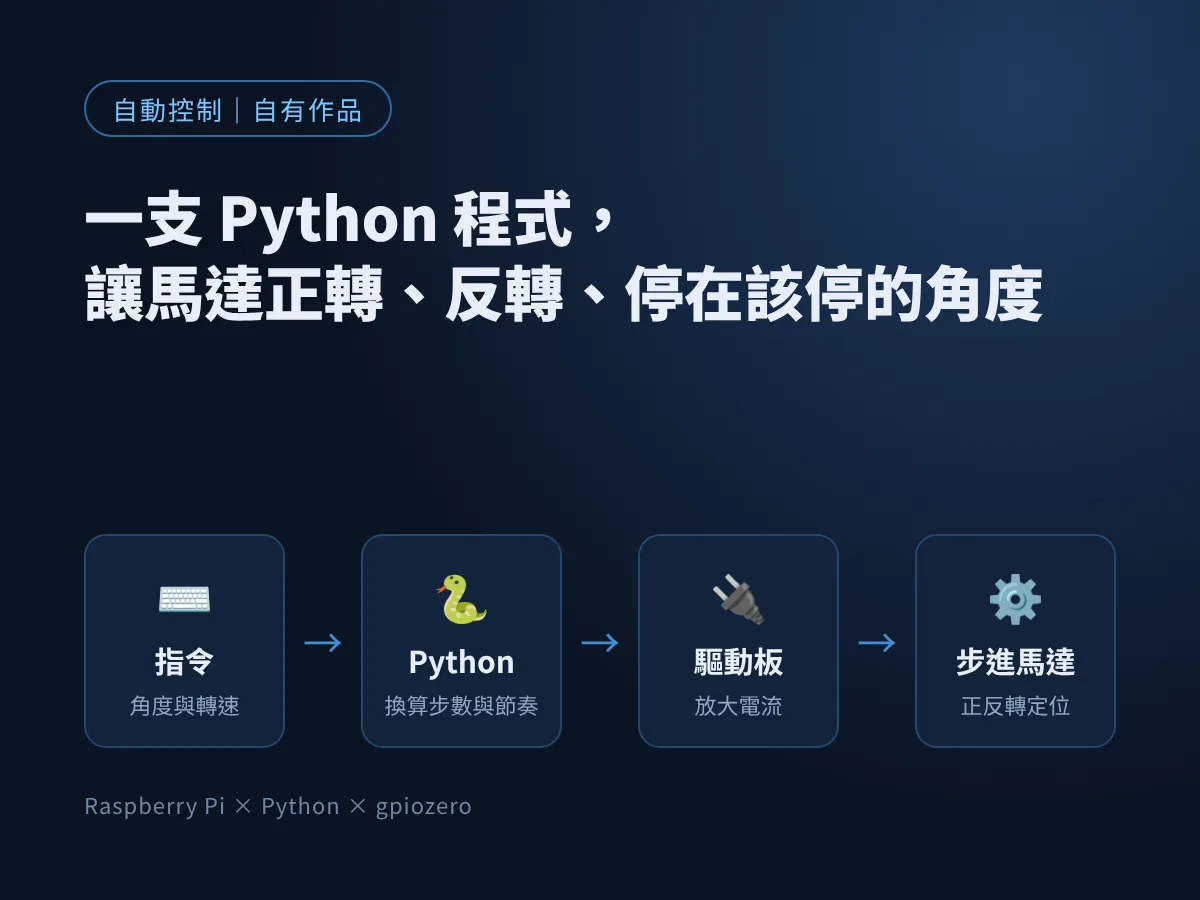
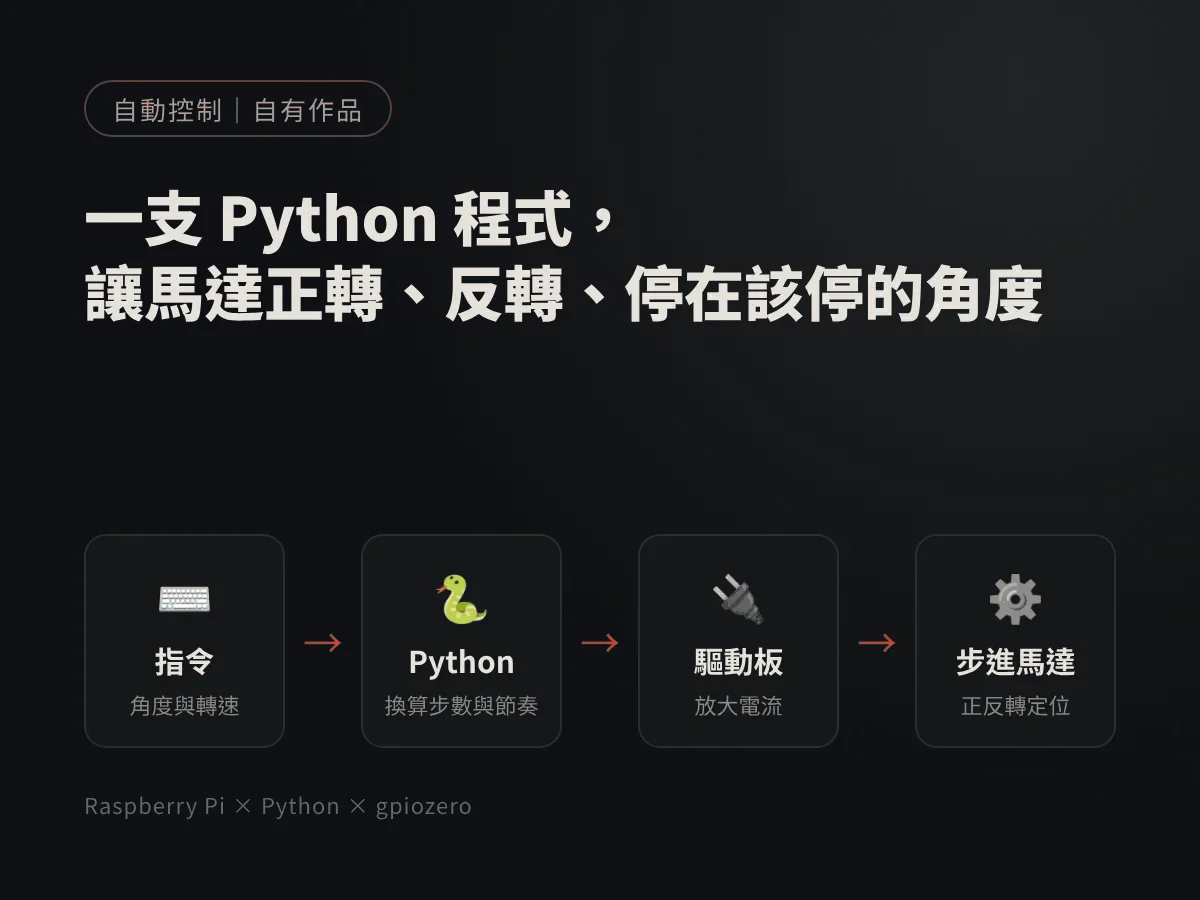
作品頁跟著改版；品牌網站 Demo 點進去直接看網站
- 有 demo 的作品頁整頁嵌入 Demo，不寫技術說明
- 作品列表改用大圖卡，品牌 Demo 排最前
- 內頁改儀器風頁首；舊封面重新配色為石墨＋雷射紅

Claude-Session: https://claude.ai/code/session_01T1Zcs2FxqtaxBNoAKKkJqk

diff --git a/src/content.config.ts b/src/content.config.ts
@@ -47,6 +47,12 @@ const works = defineCollection({
     /** 封面圖，放在 public/works/ */
     cover: z.string().optional(),
     coverAlt: z.string().optional(),
+    /** 品牌網站 Demo：填了就直接在作品頁嵌入整個 Demo，不寫技術說明 */
+    demo: z.string().optional(),
+    /** Demo 的品牌名，作品頁大標用 */
+    demoName: z.string().optional(),
+    /** 照片來源，作品頁底部小字 */
+    credits: z.string().optional(),
   }),
 });
 

diff --git a/public/demos/pu-jewelry/index.html b/public/demos/pu-jewelry/index.html
@@ -349,5 +349,6 @@ footer{position:relative;z-index:2;background:var(--paper);border-top:1px solid 
 })();
 </script>
 
+<script>if(window.self!==window.top){var b=document.querySelector(".demo-badge");if(b)b.style.display="none";}</script>
 </body>
 </html>

diff --git a/public/demos/meihao-jianbing/index.html b/public/demos/meihao-jianbing/index.html
@@ -425,5 +425,6 @@ figcaption small{font-size:.7rem;letter-spacing:.06em;opacity:.8}
 })();
 </script>
 
+<script>if(window.self!==window.top){var b=document.querySelector(".demo-badge");if(b)b.style.display="none";}</script>
 </body>
 </html>

diff --git a/public/demos/rice-brand/index.html b/public/demos/rice-brand/index.html
@@ -432,5 +432,6 @@ footer address{font-style:normal;user-select:text}
 })();
 </script>
 
+<script>if(window.self!==window.top){var b=document.querySelector(".demo-badge");if(b)b.style.display="none";}</script>
 </body>
 </html>

diff --git a/src/content/works/meihao-jianbing-site.md b/src/content/works/meihao-jianbing-site.md
@@ -1,59 +1,17 @@
 ---
-title: 小吃店也能有精品官網：煎餅果子店的品牌網站與點餐試算
-shortTitle: 餐飲品牌網站（煎餅果子 Demo）
-description: 以虛構的煎餅果子店「美好煎餅」做的品牌官網 Demo。用精品品牌常見的滿版大圖排版呈現街頭小吃，捲動時照片緩慢推近、餅皮以圓形展開，最後是可以選份量、口味、加料的點餐試算。純前端單頁。
+title: 小吃店的精品官網：美好煎餅
+shortTitle: 餐飲品牌官網（美好煎餅）
+description: 虛構的煎餅果子店「美好煎餅」官網 Demo。用精品品牌的滿版大圖介紹街頭小吃，看完菜單就能選份量、口味、加料，算好再訂。
 pubDate: 2026-11-03
-tags: [網站架設, 品牌網站, 餐飲, 互動網頁]
+tags: [網站架設, 品牌網站]
 order: 12
 kind: 自有作品
-stack: [GSAP ScrollTrigger, Lenis, HTML／CSS／JavaScript]
+demo: /demos/meihao-jianbing/
+demoName: 美好煎餅
 link: /demos/meihao-jianbing/
-linkLabel: 打開 Demo：美好煎餅
-cover: /works/cover-meihao-jianbing-site.webp
-coverAlt: 開場、餅皮、薄脆、菜單、點餐五個區塊依序排列的流程圖
+cover: /demos/meihao-jianbing/img/t-hero.webp
+coverAlt: 一份剛做好的煎餅果子
+credits: tommao wang、Mche Lee、Erol Ahmed（天津街頭照片的招牌文字已改為繁體，僅作示範）
 ---
 
-> 這是示範作品。「美好煎餅」是虛構店名，地址、電話與價格都是編的，不是客戶案子，也還沒有實際上線給任何店家使用。照片來自 Unsplash，可免費商用；其中一張天津街頭照片的招牌文字改成了繁體。
-
-小吃店的網站常常只有一張菜單照片和地址。客人想知道的其實是：這家在做什麼、哪一款推薦、現在去還有沒有、能不能先訂。
-
-這個 Demo 把一間煎餅果子店當成精品品牌來介紹：**大圖說故事，菜單講清楚，最後讓客人自己算好再訂。**
-
-## 打開看看
-
-[美好煎餅 Demo](/demos/meihao-jianbing/)：電腦和手機都能看，往下捲到最後可以試用點餐試算。
-
-## 頁面結構
-
-| 區塊 | 內容 |
-|---|---|
-| 開場 | 一份煎餅果子的滿版照片，標語「一捲，六百年」 |
-| 什麼是煎餅果子 | 一段介紹，加上一份裡面有什麼（綠豆餅皮、蛋、薄脆、生菜…） |
-| 現場 | 鐵板攤餅與醬料的照片，說明現點現做 |
-| 綠豆餅皮 | 鐵板上攤開的餅皮，捲動時以圓形展開 |
-| 薄脆 | 一疊現炸薄脆，從攤子照片裁切後合成到深色背景 |
-| 從路邊攤開始 | 天津街頭煎餅果子攤的照片 |
-| 菜單 | 大份、小份、甜點、飲料，推薦口味用 ◆ 標示 |
-| 加料 | 紅殼蛋照片，列出可加的配料 |
-| 預訂 | 營業時間、賣完即收的說明、點餐試算 |
-
-## 做了什麼
-
-- **點餐試算**：選大份或小份，口味清單跟著換；勾選加料、調整數量，下方即時顯示品項摘要與合計。換份量時會保留同名口味。
-- **照片動態**：每張大圖捲動時緩慢推近；餅皮那一段用圓形遮罩隨捲動打開，像麵糊在鐵板上抹開。
-- **白霧轉清**：每張大圖進入畫面時，先蓋著一層半透明白霧，捲到位置才清楚，模仿精品官網的照片浮現效果。
-- **營業資訊放在預訂旁邊**：賣完即收、公休日、不吃的配料要先說，都放在客人下單前會看到的位置。
-
-## 設計上的考量
-
-- **字放得下、看得清楚**：大圖上的文字底下有漸層暗部，再加一點文字陰影，淺色照片上也讀得到。
-- **沒有照片的品項**：甜點和飲料先用色塊卡片標示「照片準備中」，不拿其他照片假裝。
-- **減少動態效果**：系統設定「減少動態效果」時，關掉推近、展開與平滑捲動，內容照常顯示。
-
-## 可以怎麼用在店家
-
-早餐店、飲料店、便當店都能用同一套結構。需要準備的是店家自己的幾張好照片和一份菜單，點餐試算可以再接 LINE 官方帳號或 Google 表單，讓訂單真的送到店家手上。
-
-## 照片來源
-
-照片皆來自 Unsplash（Unsplash License，可免費商用）：tommao wang、Mche Lee、Erol Ahmed。天津街頭那張的招牌文字由簡體改為繁體，僅作示範。
+<!-- 品牌網站 Demo：作品頁直接嵌入 /demos/meihao-jianbing/，不顯示內文。 -->

diff --git a/src/content/works/scroll-story-brand-site.md b/src/content/works/scroll-story-brand-site.md
@@ -1,59 +1,18 @@
 ---
-title: 捲動敘事品牌網站：往下捲，畫面從一粒米走到一碗飯
-shortTitle: 捲動敘事品牌網站（米品牌 Demo）
-description: 以虛構的米品牌「粒田米舖」做的品牌官網 Demo。背景是一組滿版實景照片，隨捲動依序淡入白米、稻穗、稻田、碾好的米和一碗飯，再配一條逐段畫出的金色線條與訂購試算。純前端單頁，用 GSAP ScrollTrigger 與 Lenis 製作。
+title: 米品牌官網：往下捲，從一粒米走到一碗飯
+shortTitle: 米品牌官網（粒田米舖）
+description: 虛構的花東縱谷米品牌「粒田米舖」官網 Demo。往下捲，滿版照片從白米、稻穗、稻田一路換到一碗飯，最後可以直接選米、算好價錢再訂購。
 pubDate: 2026-11-03
 updated: 2026-11-03
-tags: [網站架設, 品牌網站, 互動網頁]
+tags: [網站架設, 品牌網站]
 order: 11
 kind: 自有作品
-stack: [GSAP ScrollTrigger, Lenis, SVG, HTML／CSS／JavaScript]
+demo: /demos/rice-brand/
+demoName: 粒田米舖
 link: /demos/rice-brand/
-linkLabel: 打開 Demo：粒田米舖
-cover: /works/cover-scroll-story-brand-site.webp
-coverAlt: 白米、稻穗、稻田、一碗飯四個畫面隨捲動依序切換的流程圖
+cover: /demos/rice-brand/img/s1.webp
+coverAlt: 金黃稻穗
+credits: Kseniya Nekrasova、Winston Chen、Pierre Bamin、Markus Winkler、Eduardo Prim、Utsman Media
 ---
 
-> 這是示範作品。「粒田米舖」是虛構品牌，頁面上的商品、價格、地址與數據都是編的，不是客戶案子，也還沒有實際上線給任何品牌使用。照片來自 Unsplash，可免費商用。
-
-農產、食品、工藝這類品牌，賣的常常是「過程」：怎麼種、怎麼做、為什麼比較貴。一般官網把這些寫成一段文字加幾張照片，訪客很容易滑過去。
-
-捲動敘事的做法是**讓畫面跟著故事走**：訪客往下捲，背景就換到下一個階段，文字只需要說明眼前這一幕。
-
-## 打開看看
-
-[粒田米舖 Demo](/demos/rice-brand/)：建議用電腦開，慢慢往下捲。手機也能看。
-
-## 畫面怎麼走
-
-| 段落 | 背景照片 | 文字內容 |
-|---|---|---|
-| 開場 | 滿版白米 | 品牌標語「一粒一粒，慢慢來」 |
-| 想法 | 金黃稻穗 | 一株稻大約結多少米，配一張插秧照片 |
-| 一年 | 山邊的稻田 | 1 月到 7 月的種植時程，配水田秧苗照片 |
-| 收成之後、米 | 鋪滿畫面的生米粒 | 烘乾溫度、含水率、現碾出貨，三款米 |
-| 煮法、訂購 | 一碗白飯 | 米水比例、煮飯步驟、訂購試算 |
-
-另外有一條金色細線從頁首一路往下，隨捲動逐段畫出來，象徵灌溉水路，把各段串成同一個故事。
-
-## 做了什麼
-
-- **背景照片隨捲動淡入**：以每個段落的中心點當切換點，捲到兩段之間就是兩張照片交疊，往回捲會倒著播。切換時照片會微微推近，畫面不會死板。
-- **線條描繪**：SVG 路徑依實際頁面高度產生，用 GSAP ScrollTrigger 把「畫到哪裡」綁在捲動進度上。
-- **平滑捲動**：Lenis 讓滾輪捲動有慣性，照片和線條跟著順順地動。
-- **訂購試算**：選品種和包數，即時算小計、運費與合計（示範用，不會送出）。
-
-## 設計上的考量
-
-- **文字始終可讀**：每段文字放在半透明底的區塊裡，不管背景是白米還是稻田都看得清楚。
-- **深色模式**：配色寫成 CSS 變數，切換系統深淺色時一起變。
-- **減少動態效果**：系統設定「減少動態效果」時，關掉平滑捲動與推近效果，線條直接畫滿，照片只隨捲動切換。
-- **手機版**：文字區塊加半透明底，避免和照片互相干擾；照片依段落裁切重點。
-
-## 可以怎麼用在品牌
-
-把「米」換成自家產品就能沿用同一套結構：茶葉從茶園到一杯茶、咖啡豆從果實到一杯咖啡、木工從原木到成品。需要準備的是品牌故事的段落，以及每一段的一張主照片。
-
-## 照片來源
-
-背景與插圖照片皆來自 Unsplash（Unsplash License，可免費商用）：Kseniya Nekrasova、Winston Chen、Pierre Bamin、Markus Winkler、Eduardo Prim、Utsman Media。
+<!-- 品牌網站 Demo：作品頁直接嵌入 /demos/rice-brand/，不顯示內文。 -->

diff --git a/src/content/works/pu-jewelry-site.md b/src/content/works/pu-jewelry-site.md
@@ -1,60 +1,17 @@
 ---
-title: 精品珠寶品牌網站：滿版大圖、白霧浮現與預約鑑賞
-shortTitle: 珠寶品牌網站（璞 Demo）
-description: 以虛構的台灣珠寶品牌「璞」做的官網 Demo，參考國際精品珠寶官網的排版：置中的品牌字、滿版大圖、照片從白霧中浮現，最後是預約鑑賞表單。主題是花蓮台灣玉與南方澳紅珊瑚。純前端單頁。
+title: 精品珠寶官網：璞
+shortTitle: 珠寶品牌官網（璞）
+description: 虛構的台灣珠寶品牌「璞」官網 Demo。以花蓮台灣玉與南方澳紅珊瑚為主題，滿版大圖搭配少量文字，最後是預約門市鑑賞。
 pubDate: 2026-11-03
-tags: [網站架設, 品牌網站, 精品, 互動網頁]
+tags: [網站架設, 品牌網站]
 order: 13
 kind: 自有作品
-stack: [GSAP ScrollTrigger, Lenis, HTML／CSS／JavaScript]
+demo: /demos/pu-jewelry/
+demoName: 璞
 link: /demos/pu-jewelry/
-linkLabel: 打開 Demo：璞
-cover: /works/cover-pu-jewelry-site.webp
-coverAlt: 寶石、玉鐲、紅珊瑚、腕錶四個滿版區塊依序排列的流程圖
+cover: /demos/pu-jewelry/img/hero.webp
+coverAlt: 綠色蛋面寶石
+credits: Content Pixie、Eric Prouzet、Emmanuel Black、Age Barros、Sebastian Schuster、Tahlia Doyle、Jonathan Sanchez、Saronita
 ---
 
-> 這是示範作品。「璞」是虛構品牌，作品、價格、門市與數據都是編的，不是客戶案子，也還沒有實際上線給任何品牌使用。照片來自 Unsplash，可免費商用。
-
-精品珠寶的官網很少放大量文字。它們靠的是節奏：一張大圖、一句話、一個按鈕，再往下一張。訪客不是來比價的，是來感受這個品牌值不值得走進門市。
-
-這個 Demo 把同樣的節奏用在一個台灣品牌上：**花蓮的玉，南方澳的紅珊瑚。**
-
-## 打開看看
-
-[璞 Demo](/demos/pu-jewelry/)：建議用電腦開，慢慢往下捲。
-
-## 頁面結構
-
-| 區塊 | 內容 |
-|---|---|
-| 頁首 | 置中的品牌字「璞」，捲動後自動縮小 |
-| 開場 | 綠色蛋面寶石，標題「山海之石」 |
-| 品牌短句 | 石頭不說話，但記得山和海 |
-| 玉鐲 | 一排排玉鐲的滿版照片 |
-| 紅珊瑚項鍊 | 海邊配戴紅珊瑚項鍊的照片 |
-| 精選作品 | 四件作品卡，含材質與價格 |
-| 腕錶 | 白色錶盤特寫 |
-| 品牌故事 | 工坊與工時數字，配一張手工打磨的照片 |
-| 預約鑑賞 | 姓名、門市、日期、想看的作品 |
-
-## 做了什麼
-
-- **白霧浮現**：每張大圖進入畫面時先蓋著一層模糊的白霧，捲到位置才變清楚，像照片慢慢對焦。
-- **照片推近**：大圖和作品卡隨捲動緩慢縮放，讓靜態照片有一點呼吸感。
-- **頁首縮小**：品牌字一開始放大置中，捲動後縮小，讓出版面給內容。
-- **預約鑑賞表單**：預設日期為三天後，送出後在頁面上顯示確認訊息（示範用，不會送出）。
-
-## 設計上的考量
-
-- **文字少、留白多**：每個區塊只有一個標題、一兩句說明和一個按鈕，字數刻意壓低。
-- **大圖上的字看得清楚**：照片底部加漸層暗部，開場則把寶石放在右側，文字放在左側的淺色空白處。
-- **手機版**：導覽縮成一行、作品卡改兩欄，開場文字改到下方並加淺色底。
-- **減少動態效果**：系統設定「減少動態效果」時，關掉白霧、推近與平滑捲動，內容直接顯示。
-
-## 可以怎麼用在品牌
-
-珠寶、手錶、香水、高價工藝品都適合這種結構。重點是準備幾張質感好的大圖，文案反而要少。預約表單可以再接 Google 試算表或 LINE 官方帳號，讓門市直接收到預約。
-
-## 照片來源
-
-照片皆來自 Unsplash（Unsplash License，可免費商用）：Content Pixie、Eric Prouzet、Emmanuel Black、Age Barros、Sebastian Schuster、Tahlia Doyle、Jonathan Sanchez、Saronita。
+<!-- 品牌網站 Demo：作品頁直接嵌入 /demos/pu-jewelry/，不顯示內文。 -->

diff --git a/AGENTS.md b/AGENTS.md
@@ -69,6 +69,11 @@
 
 ## 6. 作業紀錄
 
+### 2026-11-04 — 作品頁跟著改版；品牌網站 Demo 點進去直接看網站
+- 範圍：`src/content.config.ts`（works 新增 `demo`、`demoName`、`credits`）、`src/pages/[section]/[slug].astro`（有 `demo` 的作品頁改成整頁嵌入 Demo：品牌名、「全螢幕開啟」「做一個你的品牌官網」兩顆按鈕、iframe 填滿畫面，不顯示內文與技術；其他內頁改儀器風頁首、封面加雷射角框、技術／連結改讀數框）、`src/pages/[section]/index.astro`（作品列表改用首頁同款大圖卡，品牌網站 Demo 排最前）、`src/layouts/Base.astro`（作品卡片樣式從首頁移到全站共用；新增 `.entry-*`、`.demo-*`）、`src/pages/index.astro`（卡片樣式移走；封面已有標籤時不再疊加分類標籤）、三個品牌 Demo 的 md（改寫標題與描述、拿掉技術欄位與內文、封面改用 Demo 實景照片）、`public/demos/{rice-brand,meihao-jianbing,pu-jewelry}/index.html`（被嵌入時隱藏左下角回作品頁連結）、`public/works/cover-*.webp`（深藍流程圖封面重新配色為石墨＋雷射紅；新增 `cover-tools-wishpool.webp`；刪除三張品牌 Demo 舊封面）
+- 原因：站主 2026-11-04 指出作品內頁沒跟著改版，且品牌形象網站「技術不用提，點進來直接 show」
+- 驗證：`npm run build` 通過；Playwright 1280px／390px 檢查作品列表、品牌 Demo 作品頁、一般作品頁、首頁，無橫向捲動、無 JS 錯誤，嵌入時回作品頁連結已隱藏
+
 ### 2026-11-03 — 首頁拿掉學歷
 - 範圍：`src/pages/index.astro`（首屏署名「中央大學資工碩士」改為「軟體工程師」；「完整履歷」卡片拿掉碩士學歷一句）
 - 原因：站主 2026-11-03 決定網站先不寫學歷。三站搜尋過「中央大學／碩士／學歷」，只有本站首頁這兩處；外部履歷 tedshen.github.io 不在本 repo，未改
